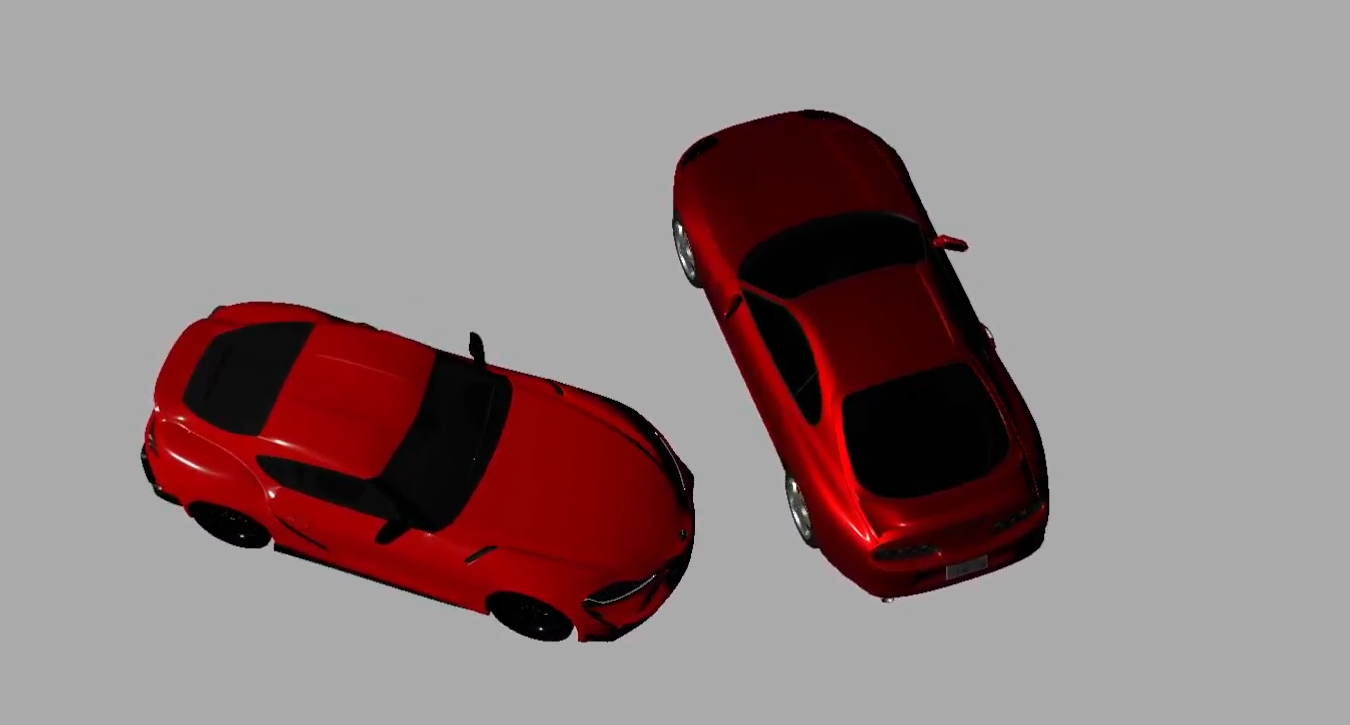
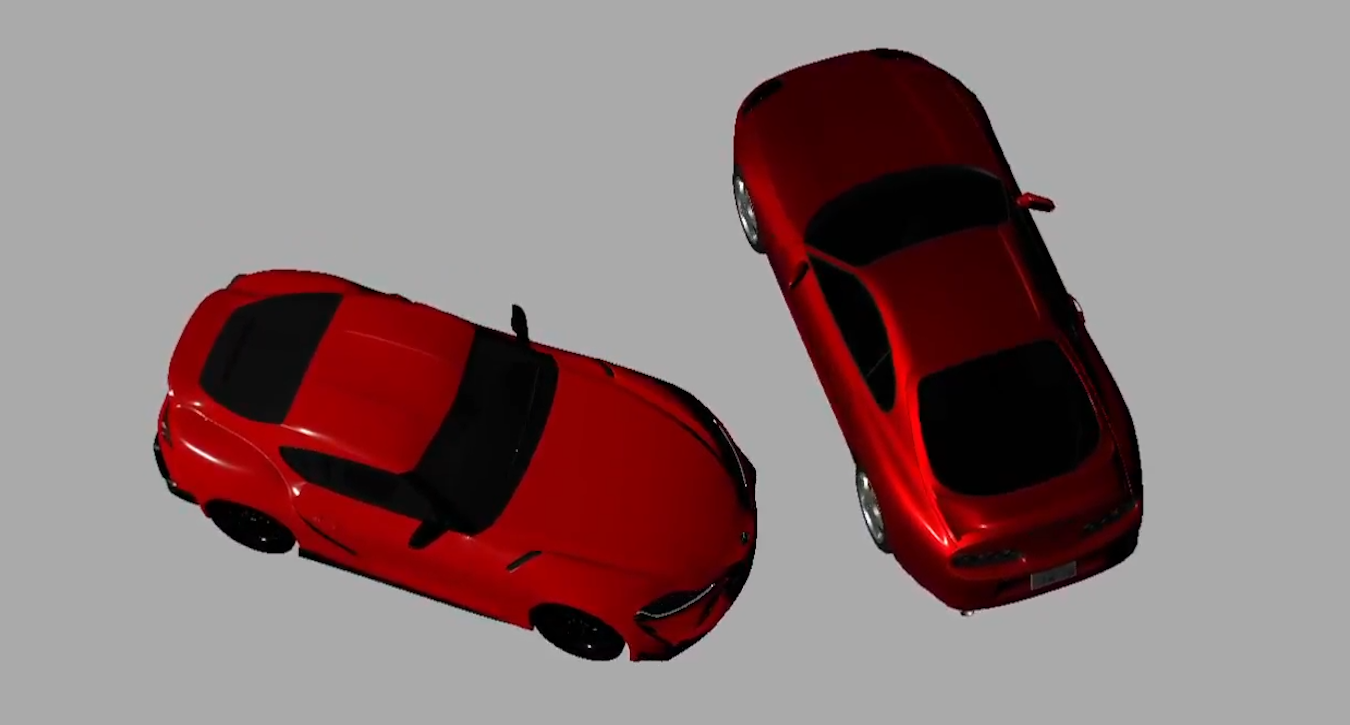
add dev videos to blogs, add texts in new blog

Changed region(s): [[0.0933, 0.0607, 0.8711, 0.9103]]

diff --git a/src/pages/posts/my-first-shenanigans-in-3d/index.tsx b/src/pages/posts/my-first-shenanigans-in-3d/index.tsx
@@ -11,11 +11,12 @@ import { Space_Grotesk } from "next/font/google";
 const spaceGrotesk = Space_Grotesk({ subsets: ["latin"] });
 
 export default function index() {
-  const SPAN_COLOR = "#6E99C4";
-  const HOVER_COLOR = "#DADADA";
+  const SONIC_BLUE = "#6E99C4";
+  const OFF_WHITE = "#DADADA";
   const IMAGE_DIMENSIONS = 700;
   const IMAGE_QUALITY = 95;
   const FIGURE_BG = "#1F1E26";
+  const BTN_TEXT_COLOR = FIGURE_BG;
   const ICON_DIMENSIONS = 40;
   const ON_HOVER_SCALE = 1.1;
   const ON_TAP_SCALE = 0.9;
@@ -72,8 +73,8 @@ export default function index() {
               how Three.js worked.{" "}
               <strong>
                 But don't do what I did, kids, because I could've spent time
-                learning more about the fundamentals of programming, React and its
-                ecosystem instead of 3D stuff.
+                learning more about the fundamentals of programming, React and
+                its ecosystem instead of 3D stuff.
               </strong>
             </p>
 
@@ -96,7 +97,7 @@ export default function index() {
               <a
                 href="https://roadmap.sh/"
                 target="_blank"
-                className={`text-[${SPAN_COLOR}] font-medium hover:text-[${HOVER_COLOR}] transition duration-150 ease-in-out`}
+                className={`text-[${SONIC_BLUE}] font-medium hover:text-[${OFF_WHITE}] transition duration-150 ease-in-out`}
               >
                 roadmap.sh
               </a>{" "}
@@ -142,7 +143,7 @@ export default function index() {
               <a
                 href="https://www.lenovo.com/us/en/p/laptops/ideapad/ideapad-gaming-laptops/ideapad-l340-15irh-gaming/88ipl301161"
                 target="_blank"
-                className={`text-[${SPAN_COLOR}] font-medium hover:text-[${HOVER_COLOR}] transition duration-150 ease-in-out`}
+                className={`text-[${SONIC_BLUE}] font-medium hover:text-[${OFF_WHITE}] transition duration-150 ease-in-out`}
               >
                 poor laptop{" "}
               </a>
@@ -187,7 +188,7 @@ export default function index() {
               <a
                 href="https://blog.maximeheckel.com/posts/vaporwave-3d-scene-with-threejs/"
                 target="_blank"
-                className={`text-[${SPAN_COLOR}] font-semibold hover:text-[${HOVER_COLOR}] transition duration-150 ease-in-out`}
+                className={`text-[${SONIC_BLUE}] font-semibold hover:text-[${OFF_WHITE}] transition duration-150 ease-in-out`}
               >
                 article by Maxime Heckel
               </a>
@@ -250,7 +251,7 @@ export default function index() {
               <a
                 href="https://threejs.org/docs/index.html?q=direction#api/en/lights/DirectionalLight"
                 target="_blank"
-                className={`text-[${SPAN_COLOR}] font-medium hover:text-[${HOVER_COLOR}] transition duration-150 ease-in-out`}
+                className={`text-[${SONIC_BLUE}] font-medium hover:text-[${OFF_WHITE}] transition duration-150 ease-in-out`}
               >
                 DirectionalLight
               </a>
@@ -288,7 +289,7 @@ export default function index() {
               <a
                 href="https://threejs.org/docs/index.html?q=geom#api/en/geometries/BoxGeometry"
                 target="_blank"
-                className={`text-[${SPAN_COLOR}] font-medium hover:text-[${HOVER_COLOR}] transition duration-150 ease-in-out`}
+                className={`text-[${SONIC_BLUE}] font-medium hover:text-[${OFF_WHITE}] transition duration-150 ease-in-out`}
               >
                 BoxGeometry
               </a>{" "}
@@ -296,7 +297,7 @@ export default function index() {
               <a
                 href="https://threejs.org/docs/index.html?q=textureload#api/en/loaders/TextureLoader"
                 target="_blank"
-                className={`text-[${SPAN_COLOR}] font-medium hover:text-[${HOVER_COLOR}] transition duration-150 ease-in-out`}
+                className={`text-[${SONIC_BLUE}] font-medium hover:text-[${OFF_WHITE}] transition duration-150 ease-in-out`}
               >
                 TextureLoader
               </a>
@@ -372,7 +373,7 @@ export default function index() {
               <a
                 href="https://getpaint.net/"
                 target="_blank"
-                className={`text-[${SPAN_COLOR}] font-medium hover:text-[${HOVER_COLOR}] transition duration-150 ease-in-out`}
+                className={`text-[${SONIC_BLUE}] font-medium hover:text-[${OFF_WHITE}] transition duration-150 ease-in-out`}
               >
                 Paint.NET
               </a>
@@ -507,7 +508,7 @@ export default function index() {
               <a
                 href="https://threejs.org/docs/index.html?q=sphere#api/en/geometries/SphereGeometry"
                 target="_blank"
-                className={`text-[${SPAN_COLOR}] font-medium hover:text-[${HOVER_COLOR}] transition duration-150 ease-in-out`}
+                className={`text-[${SONIC_BLUE}] font-medium hover:text-[${OFF_WHITE}] transition duration-150 ease-in-out`}
               >
                 SphereGeometry.
               </a>{" "}
@@ -571,7 +572,7 @@ export default function index() {
               <a
                 href="https://threejs.org/docs/index.html?q=effect#examples/en/postprocessing/EffectComposer"
                 target="_blank"
-                className={`text-[${SPAN_COLOR}] font-medium hover:text-[${HOVER_COLOR}] transition duration-150 ease-in-out`}
+                className={`text-[${SONIC_BLUE}] font-medium hover:text-[${OFF_WHITE}] transition duration-150 ease-in-out`}
               >
                 EffectComposer{" "}
               </a>
@@ -581,8 +582,8 @@ export default function index() {
             <p className="leading-7 mb-8 opacity-90">
               In Maxime's article, he had chromatic aberration on. I decided to
               leave it on because it kinda fit the "vibe" I was going for, and
-              supplemented with my other postprocessing effects of choice, this
-              can only look good.
+              when supplemented with my other postprocessing effects of choice,
+              this can only look good.
             </p>
 
             <figure className={`bg-[${FIGURE_BG}] p-3 rounded-md my-8 mx-auto`}>
@@ -629,8 +630,8 @@ export default function index() {
 
             <p className="leading-7 mb-8 opacity-90">
               Lastly, the music. The scene wouldn't feel complete without some
-              synthwave music. So I picked a track from HOME (great artist, by
-              the way), because his music captures the "vibe" well. Plus, I can
+              synthwave. So I picked a track from HOME (great artist, by the
+              way), because his music captures the "vibe" well. Plus, I can
               legally use his music.
             </p>
 
@@ -654,7 +655,7 @@ export default function index() {
               className="text-xl sm:text-2xl font-bold mt-20 mb-3 scroll-mt-20"
               id="actual"
             >
-              The end has no end, the end has no end
+              The end has no end
             </h2>
 
             <p className="leading-7 mb-8 opacity-90">
@@ -708,7 +709,7 @@ export default function index() {
                 href="https://github.com/jdichh/synthwave-scene"
                 target="_blank"
                 aria-label="Button to the GitHub repo of the project"
-                className="bg-[#DADADA] hover:bg-[#6E99C4] px-3 py-2 text-[#1F1E26] rounded-sm transition ease-in-out duration-150"
+                className={`bg-[${OFF_WHITE}] hover:bg-[${SONIC_BLUE}] px-3 py-2 text-[${BTN_TEXT_COLOR}] rounded-sm transition ease-in-out duration-150`}
                 whileHover={{ scale: ON_HOVER_SCALE }}
                 whileTap={{ scale: ON_TAP_SCALE }}
                 transition={{ duration: 0.05 }}
@@ -719,12 +720,23 @@ export default function index() {
                 href="https://jdsynthwave.netlify.app/"
                 target="_blank"
                 aria-label="Button for the live link of the project"
-                className="bg-[#DADADA] hover:bg-[#6E99C4] px-3 py-2 text-[#1F1E26] rounded-sm transition ease-in-out duration-150"
+                className={`bg-[${OFF_WHITE}] hover:bg-[${SONIC_BLUE}] px-3 py-2 text-[${BTN_TEXT_COLOR}] rounded-sm transition ease-in-out duration-150`}
                 whileHover={{ scale: ON_HOVER_SCALE }}
                 whileTap={{ scale: ON_TAP_SCALE }}
                 transition={{ duration: 0.05 }}
               >
                 Live Demo
+              </motion.a>
+              <motion.a
+                href="https://drive.google.com/drive/folders/1T71kzlu3KbTG4J0MR5YbCOmdzzKyOBuX?usp=drive_link"
+                target="_blank"
+                aria-label="Button for the development videos of the project"
+                className={`bg-[${OFF_WHITE}] hover:bg-[${SONIC_BLUE}] px-3 py-2 text-[${BTN_TEXT_COLOR}] rounded-sm transition ease-in-out duration-150`}
+                whileHover={{ scale: ON_HOVER_SCALE }}
+                whileTap={{ scale: ON_TAP_SCALE }}
+                transition={{ duration: 0.05 }}
+              >
+                Dev't Videos
               </motion.a>
             </div>
           </section>

diff --git a/src/pages/posts/gran-turismo-showroom/index.tsx b/src/pages/posts/gran-turismo-showroom/index.tsx
@@ -11,8 +11,8 @@ import { Space_Grotesk } from "next/font/google";
 const spaceGrotesk = Space_Grotesk({ subsets: ["latin"] });
 
 export default function index() {
-  const SPAN_COLOR = "#6E99C4";
-  const HOVER_COLOR = "#DADADA";
+  const SONIC_BLUE = "#6E99C4";
+  const OFF_WHITE = "#DADADA";
   const IMAGE_DIMENSIONS = 700;
   const IMAGE_QUALITY = 95;
   const FIGURE_BG = "#1F1E26";
@@ -23,7 +23,9 @@ export default function index() {
   return (
     <>
       <Head>
-        <title>Posts | Creating a Gran Turismo-esque showroom with Three.js</title>
+        <title>
+          Posts | Creating a Gran Turismo-esque showroom with Three.js
+        </title>
       </Head>
       <PostsHeader title="Creating a Gran Turismo-esque showroom with Three.js" />
       <motion.main
@@ -51,7 +53,7 @@ export default function index() {
               </p>
               <div className="flex justify-end">
                 <a
-                  href="#section5"
+                  href="#good-stuff"
                   className="font-medium text-[#6E99C4] hover:text-[#DADADA] transition duration-150 ease-in-out"
                 >
                   Skip to the good stuff.
@@ -61,7 +63,7 @@ export default function index() {
           </section>
 
           <section id="section2">
-            <h2 className="text-xl sm:text-2xl font-bold mt-20 mb-3 scroll-mt-[24rem]">
+            <h2 className="text-xl sm:text-2xl font-bold mt-20 mb-3">
               Gentlemen, start your engines!
             </h2>
 
@@ -94,7 +96,7 @@ export default function index() {
                 className="rounded-md"
               />
               <figcaption className="mt-2 text-center">
-                Test Drive 6 cover.
+                Test Drive 6 PS1 cover.
               </figcaption>
             </figure>
 
@@ -139,30 +141,33 @@ export default function index() {
             </figure>
 
             <p className="leading-7 mb-8 opacity-90">
-              The Gran Turismo series, as a whole, has always been in my heart.
-              Not just because of the cars, and the quality of the racetracks
-              themselves; the presentation, coupled with the glorious
-              soundtrack, has always been top-tier ever since its first release.
-              This was also where I discovered my love for jazz. Imagine, being
-              in the comfort of your home to wind down after a long, tiresome
-              day, and listening to the games' jazz collection.
+              Test Drive 6 was great (to me). But the Gran Turismo series, as a
+              whole, has always been closer to my heart. Not just because of the
+              cars, and the quality of the racetracks themselves; the
+              presentation, coupled with the glorious soundtrack, has always
+              been top-tier ever since its first release. This was also where I
+              discovered my love for jazz. Imagine, being in the comfort of your
+              home to wind down after a long, tiresome day, and listening to the
+              games' jazz collection.
             </p>
 
             <p className="leading-7 mb-8 opacity-90">
-              Anyway, I'm going on a tangent here. If you've read my{" "}
+              Anyway, I'm going on a tangent here about my love for cars and
+              driving/racing video games. If you've read my{" "}
               <a
                 href="/posts/my-first-shenanigans-in-3d"
                 target="_blank"
-                className={`text-[#6E99C4] font-semibold hover:text-[#DADADA] transition duration-150 ease-in-out`}
+                className={`text-[${SONIC_BLUE}] font-semibold hover:text-[${OFF_WHITE}] transition duration-150 ease-in-out`}
               >
                 previous post
               </a>
-              , then you'd know how I came by Three.js, and in my self-learning
-              journey. And now, to show you how I made the showroom project.
+              , then you'd know how I came by Three.js so early on in my
+              self-learning journey. And now, to show you how I made the
+              showroom project.
             </p>
           </section>
 
-          <section id="section4"> 
+          <section id="section4">
             <h2 className="text-xl sm:text-2xl font-bold mt-20 mb-3 ">
               A bright idea
             </h2>
@@ -183,7 +188,8 @@ export default function index() {
             </p>
           </section>
 
-          <section id="section5"  className="scroll-mt-24">
+          <div id="good-stuff" className="scroll-mt-12" />
+          <section id="section5">
             <h2 className="text-xl sm:text-2xl font-bold mt-20 mb-3 ">
               Bro, is that a (Toyota) Supra?!
             </h2>
@@ -192,11 +198,11 @@ export default function index() {
               I perused Sketchfab for car models, and I came across an A80 and
               A90 Supra in the same page. And I thought to myself, "Why not
               something about honoring the past car, and welcoming the new one?
-              A passing of the baton of sorts.".
+              Like, a passing of the baton of sorts?".
             </p>
 
             <p className="leading-7 mb-8 opacity-90">
-              So not only one, but two (2) Supras!
+              So I got not only one, but two Supras!
             </p>
 
             <figure className={`bg-[${FIGURE_BG}] p-3 rounded-md my-8 mx-auto`}>
@@ -215,7 +221,16 @@ export default function index() {
             </figure>
 
             <p className="leading-7 mb-8 opacity-90">
-              Now that we secured the car models, let's load it in.
+              Now that I've secured the car models, let's load them in using{" "}
+              <a
+                href="https://threejs.org/docs/index.html?q=gltf#examples/en/loaders/GLTFLoader"
+                target="_blank"
+                className={`font-medium text-[${SONIC_BLUE}] hover:text-[${OFF_WHITE}] transition duration-150 ease-in-out`}
+              >
+                GLTFLoader
+              </a>
+              . This just loads any models in the JSON (.gltf) or binary (.glb)
+              format.
             </p>
 
             <figure className={`bg-[${FIGURE_BG}] p-3 rounded-md my-8 mx-auto`}>
@@ -228,17 +243,36 @@ export default function index() {
                 className="rounded-md"
               />
               <figcaption className="mt-2 text-center">
-                The Supras
+                Supras in action.
               </figcaption>
             </figure>
+
+            <p className="leading-7 mb-8 opacity-90">
+              <strong>
+                This is just a zoomed-in view of it, and not the actual
+                perspective itself.
+              </strong>
+            </p>
+
+            <p className="leading-7 mb-8 opacity-90">
+              I won't get too much into the technical aspect of it, but I
+              initially set up the camera using{" "}
+              <a
+                href="https://threejs.org/docs/index.html?q=orbit#examples/en/controls/OrbitControls"
+                target="_blank"
+                className={`font-medium text-[${SONIC_BLUE}] hover:text-[${OFF_WHITE}] transition duration-150 ease-in-out`}
+              >
+                OrbitCamera
+              </a>{" "}
+              to hover and rotate above the cars, at an angle, and looking at
+              the center point of the two cars combined.
+            </p>
           </section>
 
           <section id="section6">
             <h2 className="text-xl sm:text-2xl font-bold mt-20 mb-3 ">
               The floor is...concrete
             </h2>
-
-
 
             <p className="leading-7 mb-8 opacity-90">
               So not only one, but two (2) Supras!
@@ -259,7 +293,6 @@ export default function index() {
               </figcaption>
             </figure>
           </section>
-
         </article>
       </motion.main>
       <RouteFooter />
